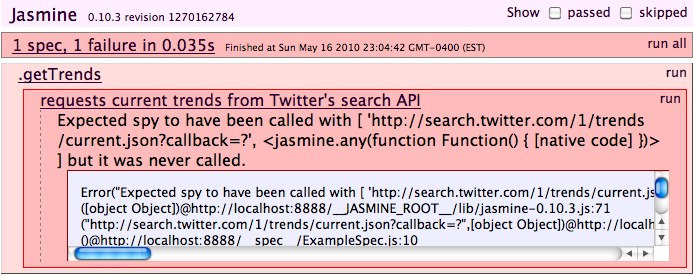
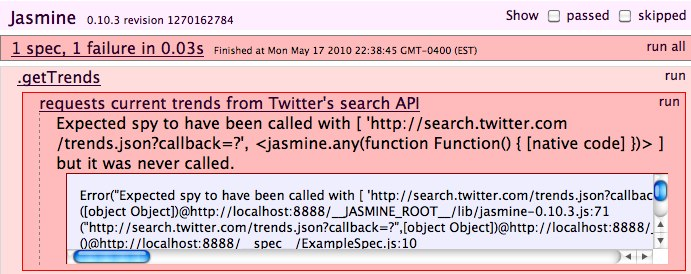
Updates presentation
* Fixes Twitter API URL

diff --git a/index.html b/index.html
@@ -5016,7 +5016,7 @@ So that I don't risk offending my users
     <span class="nx">twitterApi</span><span class="p">.</span><span class="nx">getTrends</span><span class="p">();</span>
 
     <span class="nx">expect</span><span class="p">(</span><span class="nx">jQuery</span><span class="p">.</span><span class="nx">getJSON</span><span class="p">).</span><span class="nx">wasCalledWith</span><span class="p">(</span>
-      <span class="s2">"http://search.twitter.com/1/trends.json?callback=?"</span><span class="p">,</span> 
+      <span class="s2">"http://search.twitter.com/trends.json?callback=?"</span><span class="p">,</span> 
       <span class="nx">jasmine</span><span class="p">.</span><span class="nx">any</span><span class="p">(</span><span class="nb">Function</span><span class="p">)</span>
     <span class="p">);</span>
   <span class="p">});</span>
@@ -5034,7 +5034,7 @@ So that I don't risk offending my users
           <div class="">
             <div id="slide-16" class="content">
               <div class="highlight js code highlight"><pre><span class="kd">var</span> <span class="nx">TwitterApi</span> <span class="o">=</span> <span class="kd">function</span><span class="p">()</span> <span class="p">{</span>
-  <span class="k">this</span><span class="p">.</span><span class="nx">trendsUrl</span> <span class="o">=</span> <span class="s2">"http://search.twitter.com/1/trends.json?callback=?"</span>
+  <span class="k">this</span><span class="p">.</span><span class="nx">trendsUrl</span> <span class="o">=</span> <span class="s2">"http://search.twitter.com/trends.json?callback=?"</span>
 <span class="p">};</span>
 
 <span class="nx">TwitterApi</span><span class="p">.</span><span class="nx">prototype</span> <span class="o">=</span> <span class="p">{</span>

diff --git a/jasmine.md b/jasmine.md
@@ -132,7 +132,7 @@
         twitterApi.getTrends();
         
         expect(jQuery.getJSON).wasCalledWith(
-          "http://search.twitter.com/1/trends.json?callback=?", 
+          "http://search.twitter.com/trends.json?callback=?", 
           jasmine.any(Function)
         );
       });
@@ -147,7 +147,7 @@
 
 @@@ js
     var TwitterApi = function() {
-      this.trendsUrl = "http://search.twitter.com/1/trends.json?callback=?"
+      this.trendsUrl = "http://search.twitter.com/trends.json?callback=?"
     };
 
     TwitterApi.prototype = {
